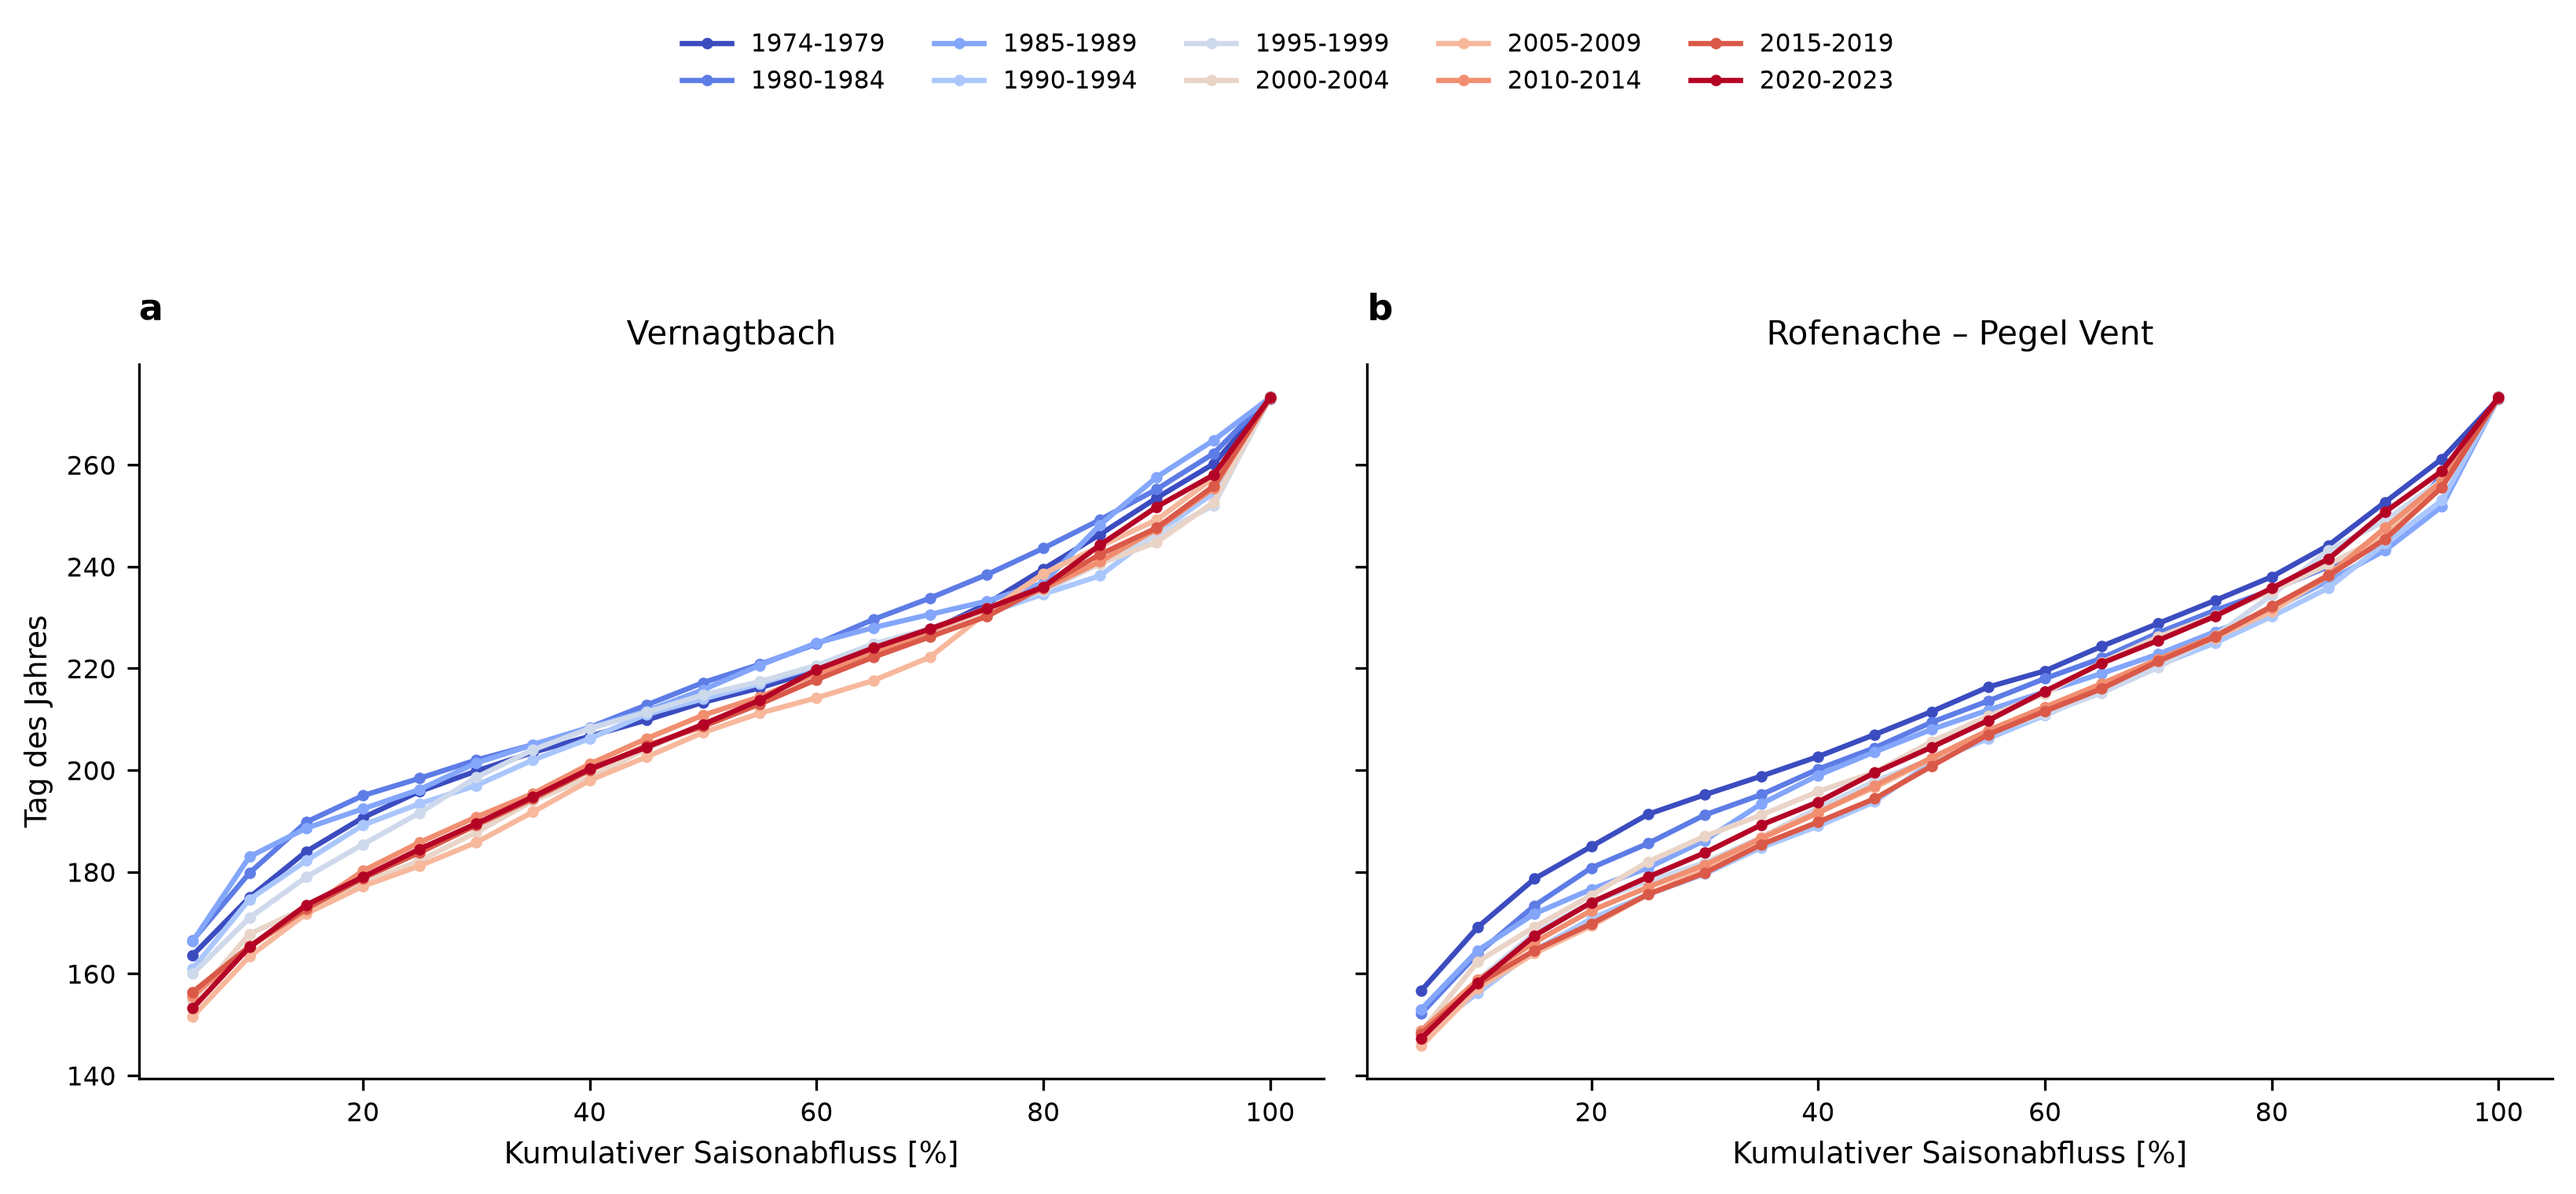
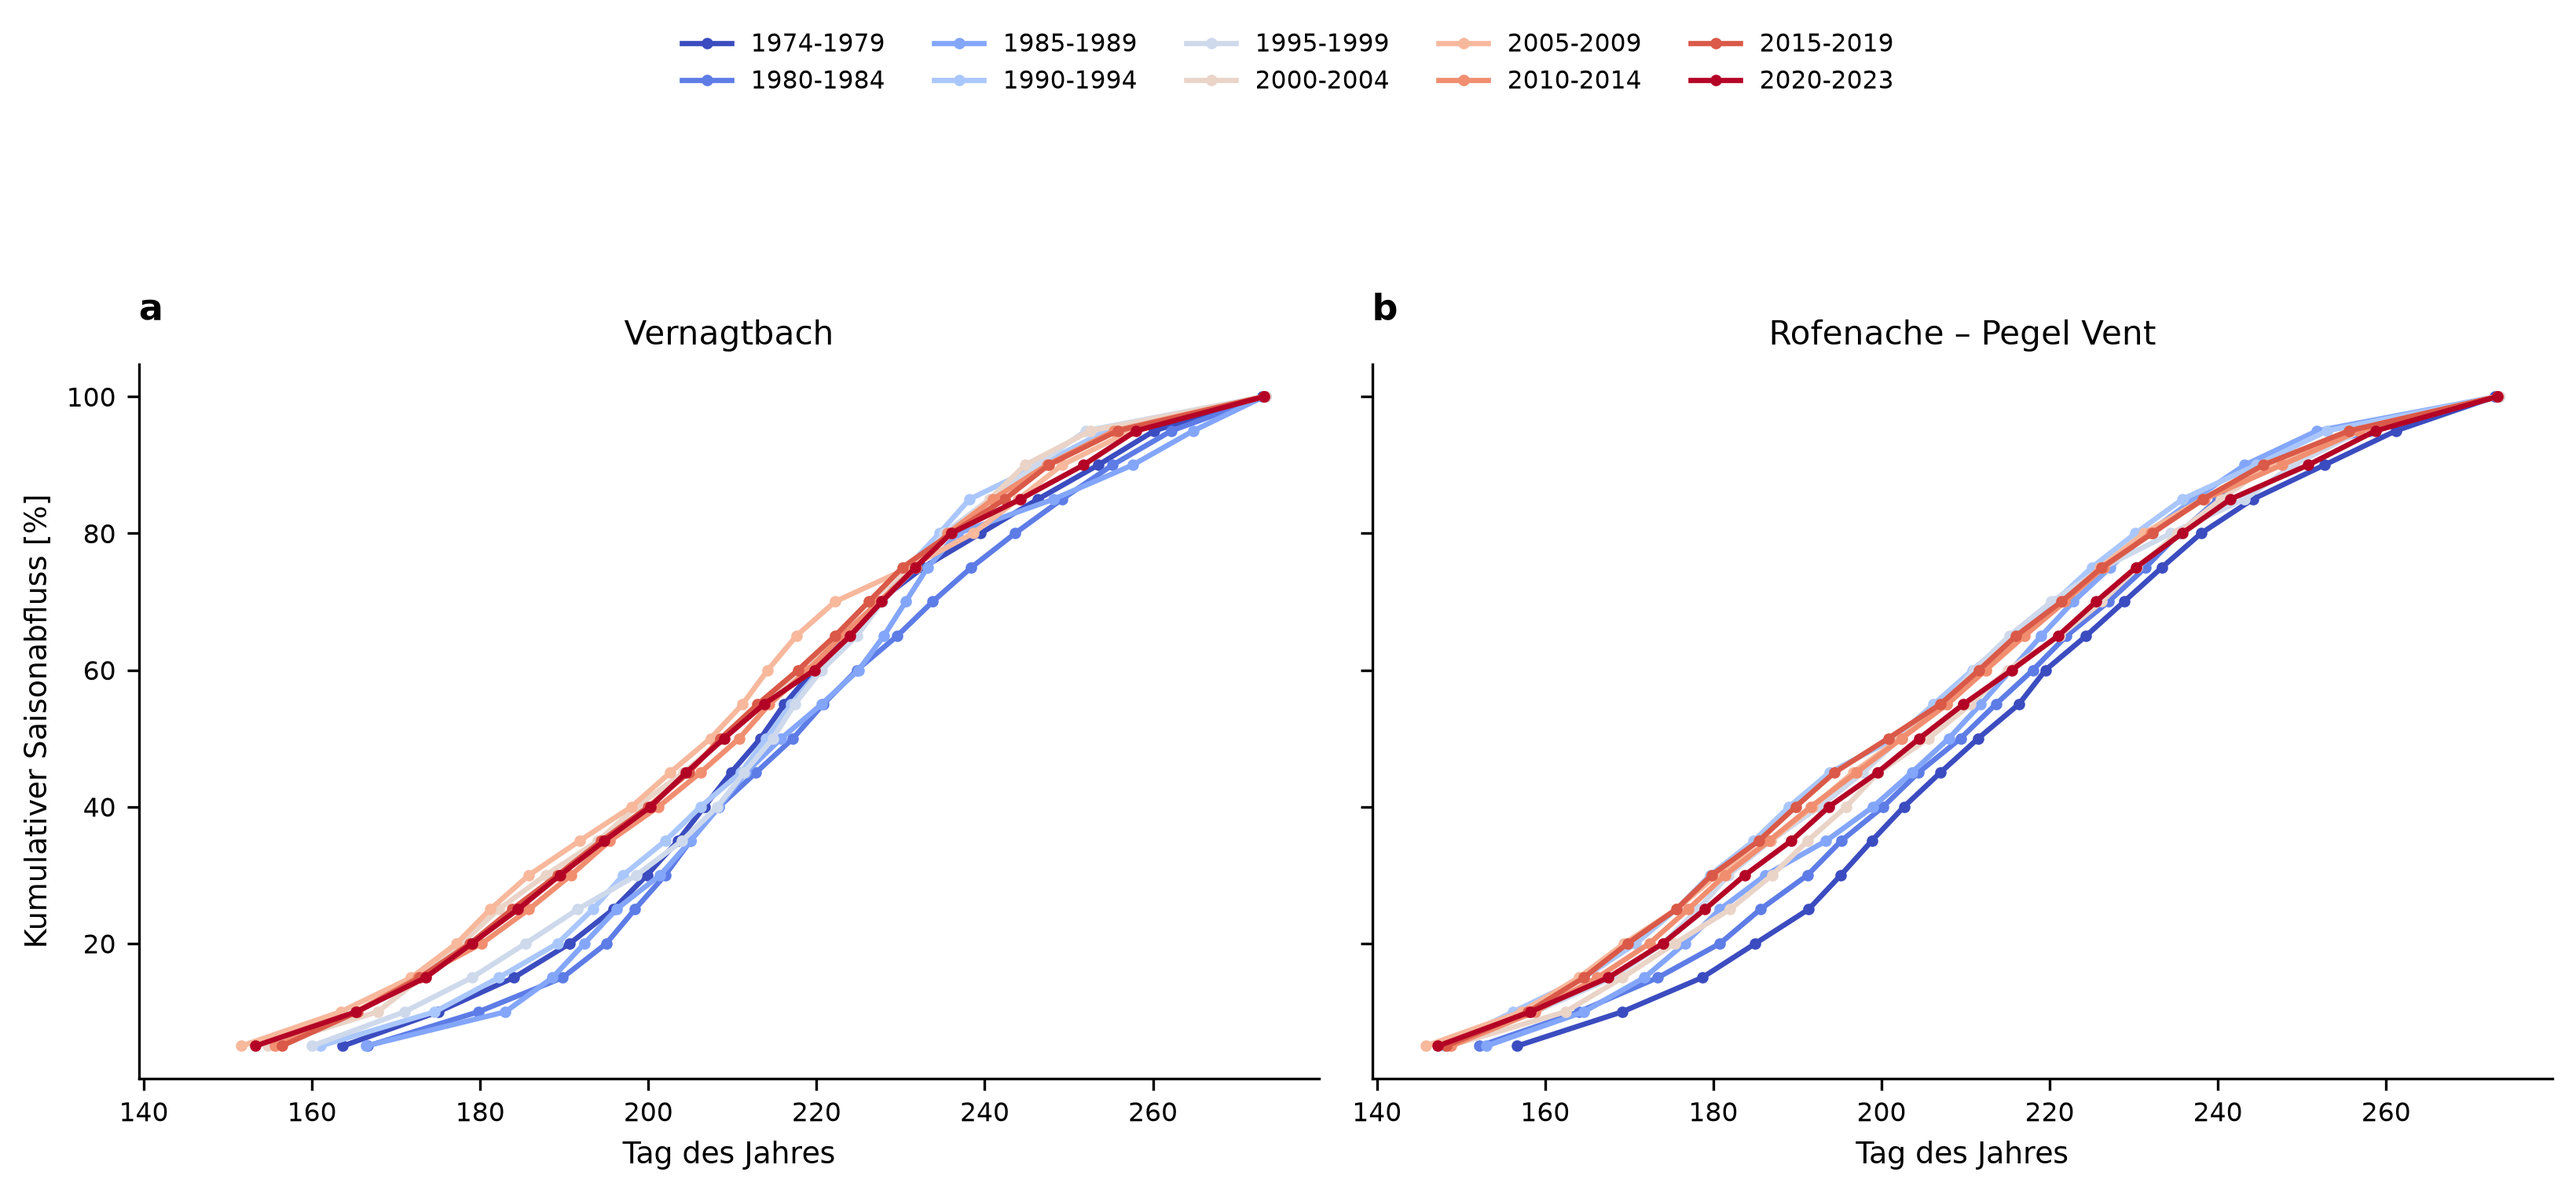
Swap axes on fig12/fig12b to classic S-curve orientation (x=day, y=%)

diff --git a/scripts/04_make_figures.py b/scripts/04_make_figures.py
@@ -336,11 +336,11 @@ def fig_cumulative_fraction_curves(df):
             if len(sub) == 0:
                 continue
             mean_days = sub[[f"{int(round(f*100))}" for f in fractions]].mean()
-            ax.plot(fractions * 100, mean_days.values, color=c, linewidth=1.6, marker="o", markersize=2.5, label=pl)
+            ax.plot(mean_days.values, fractions * 100, color=c, linewidth=1.6, marker="o", markersize=2.5, label=pl)
         ax.set_title(title, fontsize=10)
         ax.text(0.0, 1.1, lab, transform=ax.transAxes, fontsize=11, fontweight="bold", va="top", clip_on=False)
-        ax.set_xlabel("Kumulativer Saisonabfluss [%]")
-    axes[0].set_ylabel("Tag des Jahres")
+        ax.set_xlabel("Tag des Jahres")
+    axes[0].set_ylabel("Kumulativer Saisonabfluss [%]")
     handles, labels = axes[0].get_legend_handles_labels()
     fig.legend(handles, labels, loc="upper center", bbox_to_anchor=(0.5, 1.1), ncol=5, frameon=False, fontsize=7.5)
     fig.tight_layout(rect=[0, 0, 1, 0.88])
@@ -380,11 +380,11 @@ def fig_cumulative_fraction_curves_by_year(df):
         fd = fraction_days_per_year(col)
         cols = [f"{int(round(f*100))}" for f in fractions]
         for y, row in fd.iterrows():
-            ax.plot(fractions * 100, row[cols].values, color=cmap(norm(y)), linewidth=0.8, alpha=0.6)
+            ax.plot(row[cols].values, fractions * 100, color=cmap(norm(y)), linewidth=0.8, alpha=0.6)
         ax.set_title(title, fontsize=10)
         ax.text(0.0, 1.08, lab, transform=ax.transAxes, fontsize=11, fontweight="bold", va="top", clip_on=False)
-        ax.set_xlabel("Kumulativer Saisonabfluss [%]")
-    axes[0].set_ylabel("Tag des Jahres")
+        ax.set_xlabel("Tag des Jahres")
+    axes[0].set_ylabel("Kumulativer Saisonabfluss [%]")
     sm = plt.cm.ScalarMappable(cmap=cmap, norm=norm)
     sm.set_array([])
     cbar = fig.colorbar(sm, ax=axes, orientation="horizontal", fraction=0.05, pad=0.15, aspect=40)
